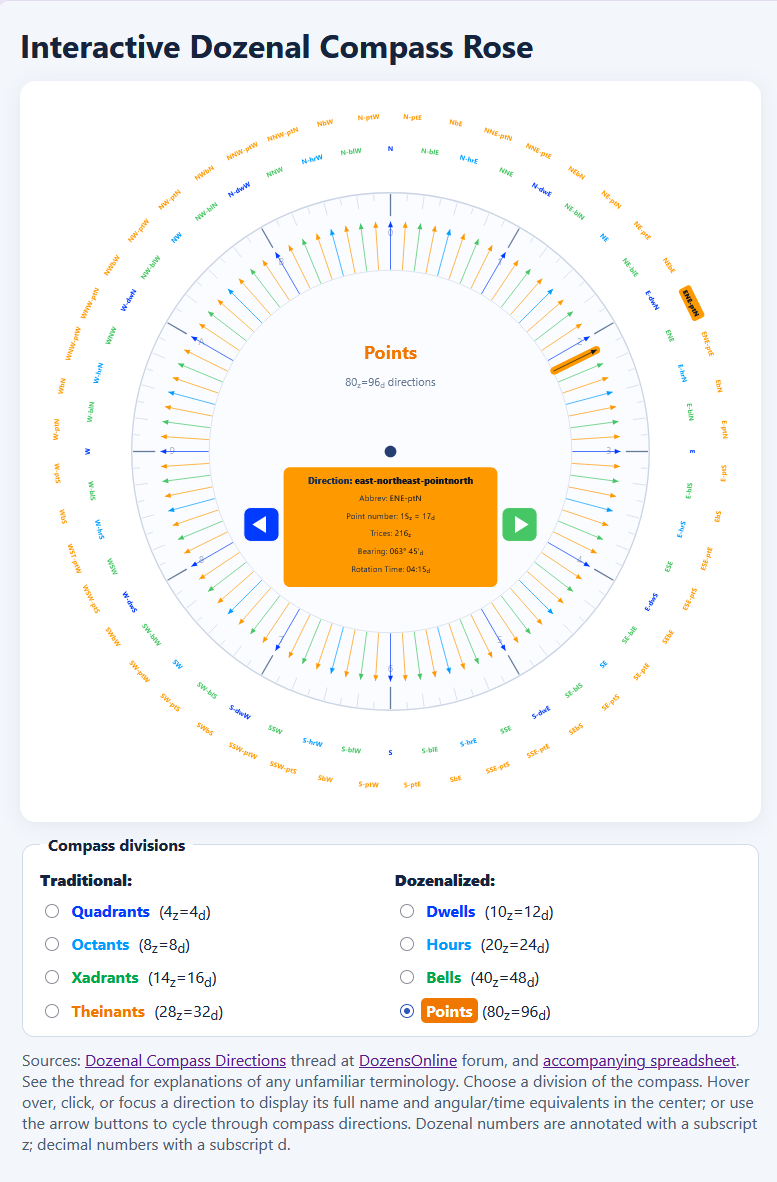
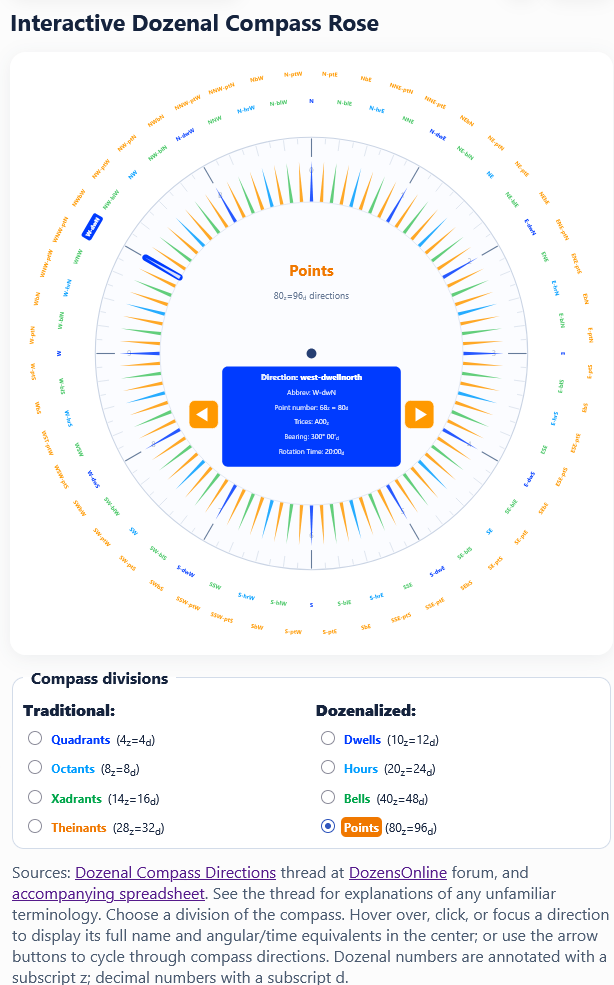
LnF change resource-volan-interactive-dozenal-compass-rose.

diff --git a/resource-volan/interactive-dozenal-compass-rose.html b/resource-volan/interactive-dozenal-compass-rose.html
@@ -105,9 +105,8 @@ function selectPoint(g,p){
     other.classList.remove('is-selected');
     other.querySelector('.selection-background')?.remove();
     other.querySelector('.arrow-selection-background')?.remove();
-    const shaft=other.querySelector('.direction-arrow'),head=other.querySelector('.direction-arrowhead');
-    if(shaft)shaft.setAttribute('stroke',other.dataset.originalColor);
-    if(head)head.setAttribute('fill',other.dataset.originalColor);
+    const triangle=other.querySelector('.direction-arrow');
+    if(triangle)triangle.setAttribute('fill',other.dataset.originalColor);
     const label=other.querySelector('text');if(label)label.setAttribute('fill',other.dataset.originalColor);
   });
   const label=g.querySelector('text');if(!label)return;
@@ -123,24 +122,20 @@ function selectPoint(g,p){
   const hex=p.color.slice(1),rgb=[0,2,4].map(i=>parseInt(hex.slice(i,i+2),16)/255);
   const lum=rgb.map(v=>v<=.04045?v/12.92:((v+.055)/1.055)**2.4).reduce((a,v,i)=>a+v*[.2126,.7152,.0722][i],0);
   label.setAttribute('fill',lum>.179?'#111827':'#ffffff');
-  // Highlight the shaft and arrowhead together with a rounded outline.
-  const shaft=g.querySelector('.direction-arrow');
-  const head=g.querySelector('.direction-arrowhead');
-  if(shaft&&head){
-    const x0=+shaft.getAttribute('x1'),y0=+shaft.getAttribute('y1');
-    const x1=+shaft.getAttribute('x2'),y1=+shaft.getAttribute('y2');
-    const length=Math.hypot(x1-x0,y1-y0);
-    const width=12;
+  // Preserve the rounded selection backing and recolor the entire triangle.
+  const triangle=g.querySelector('.direction-arrow');
+  if(triangle){
+    const x0=+triangle.getAttribute('data-x0'),y0=+triangle.getAttribute('data-y0');
+    const x1=+triangle.getAttribute('data-x1'),y1=+triangle.getAttribute('data-y1');
+    const length=Math.hypot(x1-x0,y1-y0),width=12;
     const backing=document.createElementNS(NS,'rect');
     backing.setAttribute('class','arrow-selection-background');
     backing.setAttribute('x',-width/2);backing.setAttribute('y',-5);
     backing.setAttribute('width',width);backing.setAttribute('height',length+10);
-    backing.setAttribute('rx',width/2);
-    backing.setAttribute('fill',p.color);
+    backing.setAttribute('rx',width/2);backing.setAttribute('fill',p.color);
     backing.setAttribute('transform',`translate(${x0} ${y0}) rotate(${Math.atan2(y1-y0,x1-x0)*180/Math.PI-90})`);
-    g.insertBefore(backing,shaft);
-    const contrast=lum>.179?'#111827':'#ffffff';
-    shaft.setAttribute('stroke',contrast);head.setAttribute('fill',contrast);
+    g.insertBefore(backing,triangle);
+    triangle.setAttribute('fill',lum>.179?'#111827':'#ffffff');
   }
   g.classList.add('is-selected');
 }
@@ -155,13 +150,11 @@ const dense=n>=48,veryDense=n>=96;
 rows.forEach((p,i)=>{let angle=p.angle;let outer=veryDense?(i%2===0?463:513):dense?(i%2===0?465:510):460;
 let [x0,y0]=xy(angle,279),[x1,y1]=xy(angle,353),[tx,ty]=xy(angle,outer);
 const g=el('g',{class:'point',tabindex:'0',role:'button','data-original-color':p.color,'aria-label':`${p.name}, ${p.abbr}, ${p.trices} trices`});
-el('line',{class:'direction-arrow',x1:x0,y1:y0,x2:x1,y2:y1,stroke:p.color,'stroke-width':n<=24?2.2:1.35,'data-normal-width':n<=24?2.2:1.35,opacity:'.8'},g);
-// Filled triangular arrowhead pointing outward along the bearing.
-const headLength=n<=24?12:9, headHalfWidth=n<=24?5:3.8;
+// Each direction is a long, narrow isosceles triangle, pointed outward.
 const theta=(angle-90)*Math.PI/180;
-const ux=Math.cos(theta),uy=Math.sin(theta),vx=-uy,vy=ux;
-const bx=x1-ux*headLength,by=y1-uy*headLength;
-el('polygon',{class:'direction-arrowhead',points:`${x1},${y1} ${bx+vx*headHalfWidth},${by+vy*headHalfWidth} ${bx-vx*headHalfWidth},${by-vy*headHalfWidth}`,fill:p.color},g);
+const vx=-Math.sin(theta),vy=Math.cos(theta);
+const halfBase=n<=24?5.6:n<=48?4.1:3.1;
+el('polygon',{class:'direction-arrow',points:`${x0+vx*halfBase},${y0+vy*halfBase} ${x1},${y1} ${x0-vx*halfBase},${y0-vy*halfBase}`,fill:p.color,opacity:'.85','data-x0':x0,'data-y0':y0,'data-x1':x1,'data-y1':y1},g);
 // Rotate labels tangentially for dense modes, keeping all lettering upright.
 let rot=0,anchor='middle',size=n<=12?18:n<=24?15:n<=48?12.3:10.4;
 if(n>=32){rot=angle; if(rot>90&&rot<270)rot-=180;anchor='middle'}
